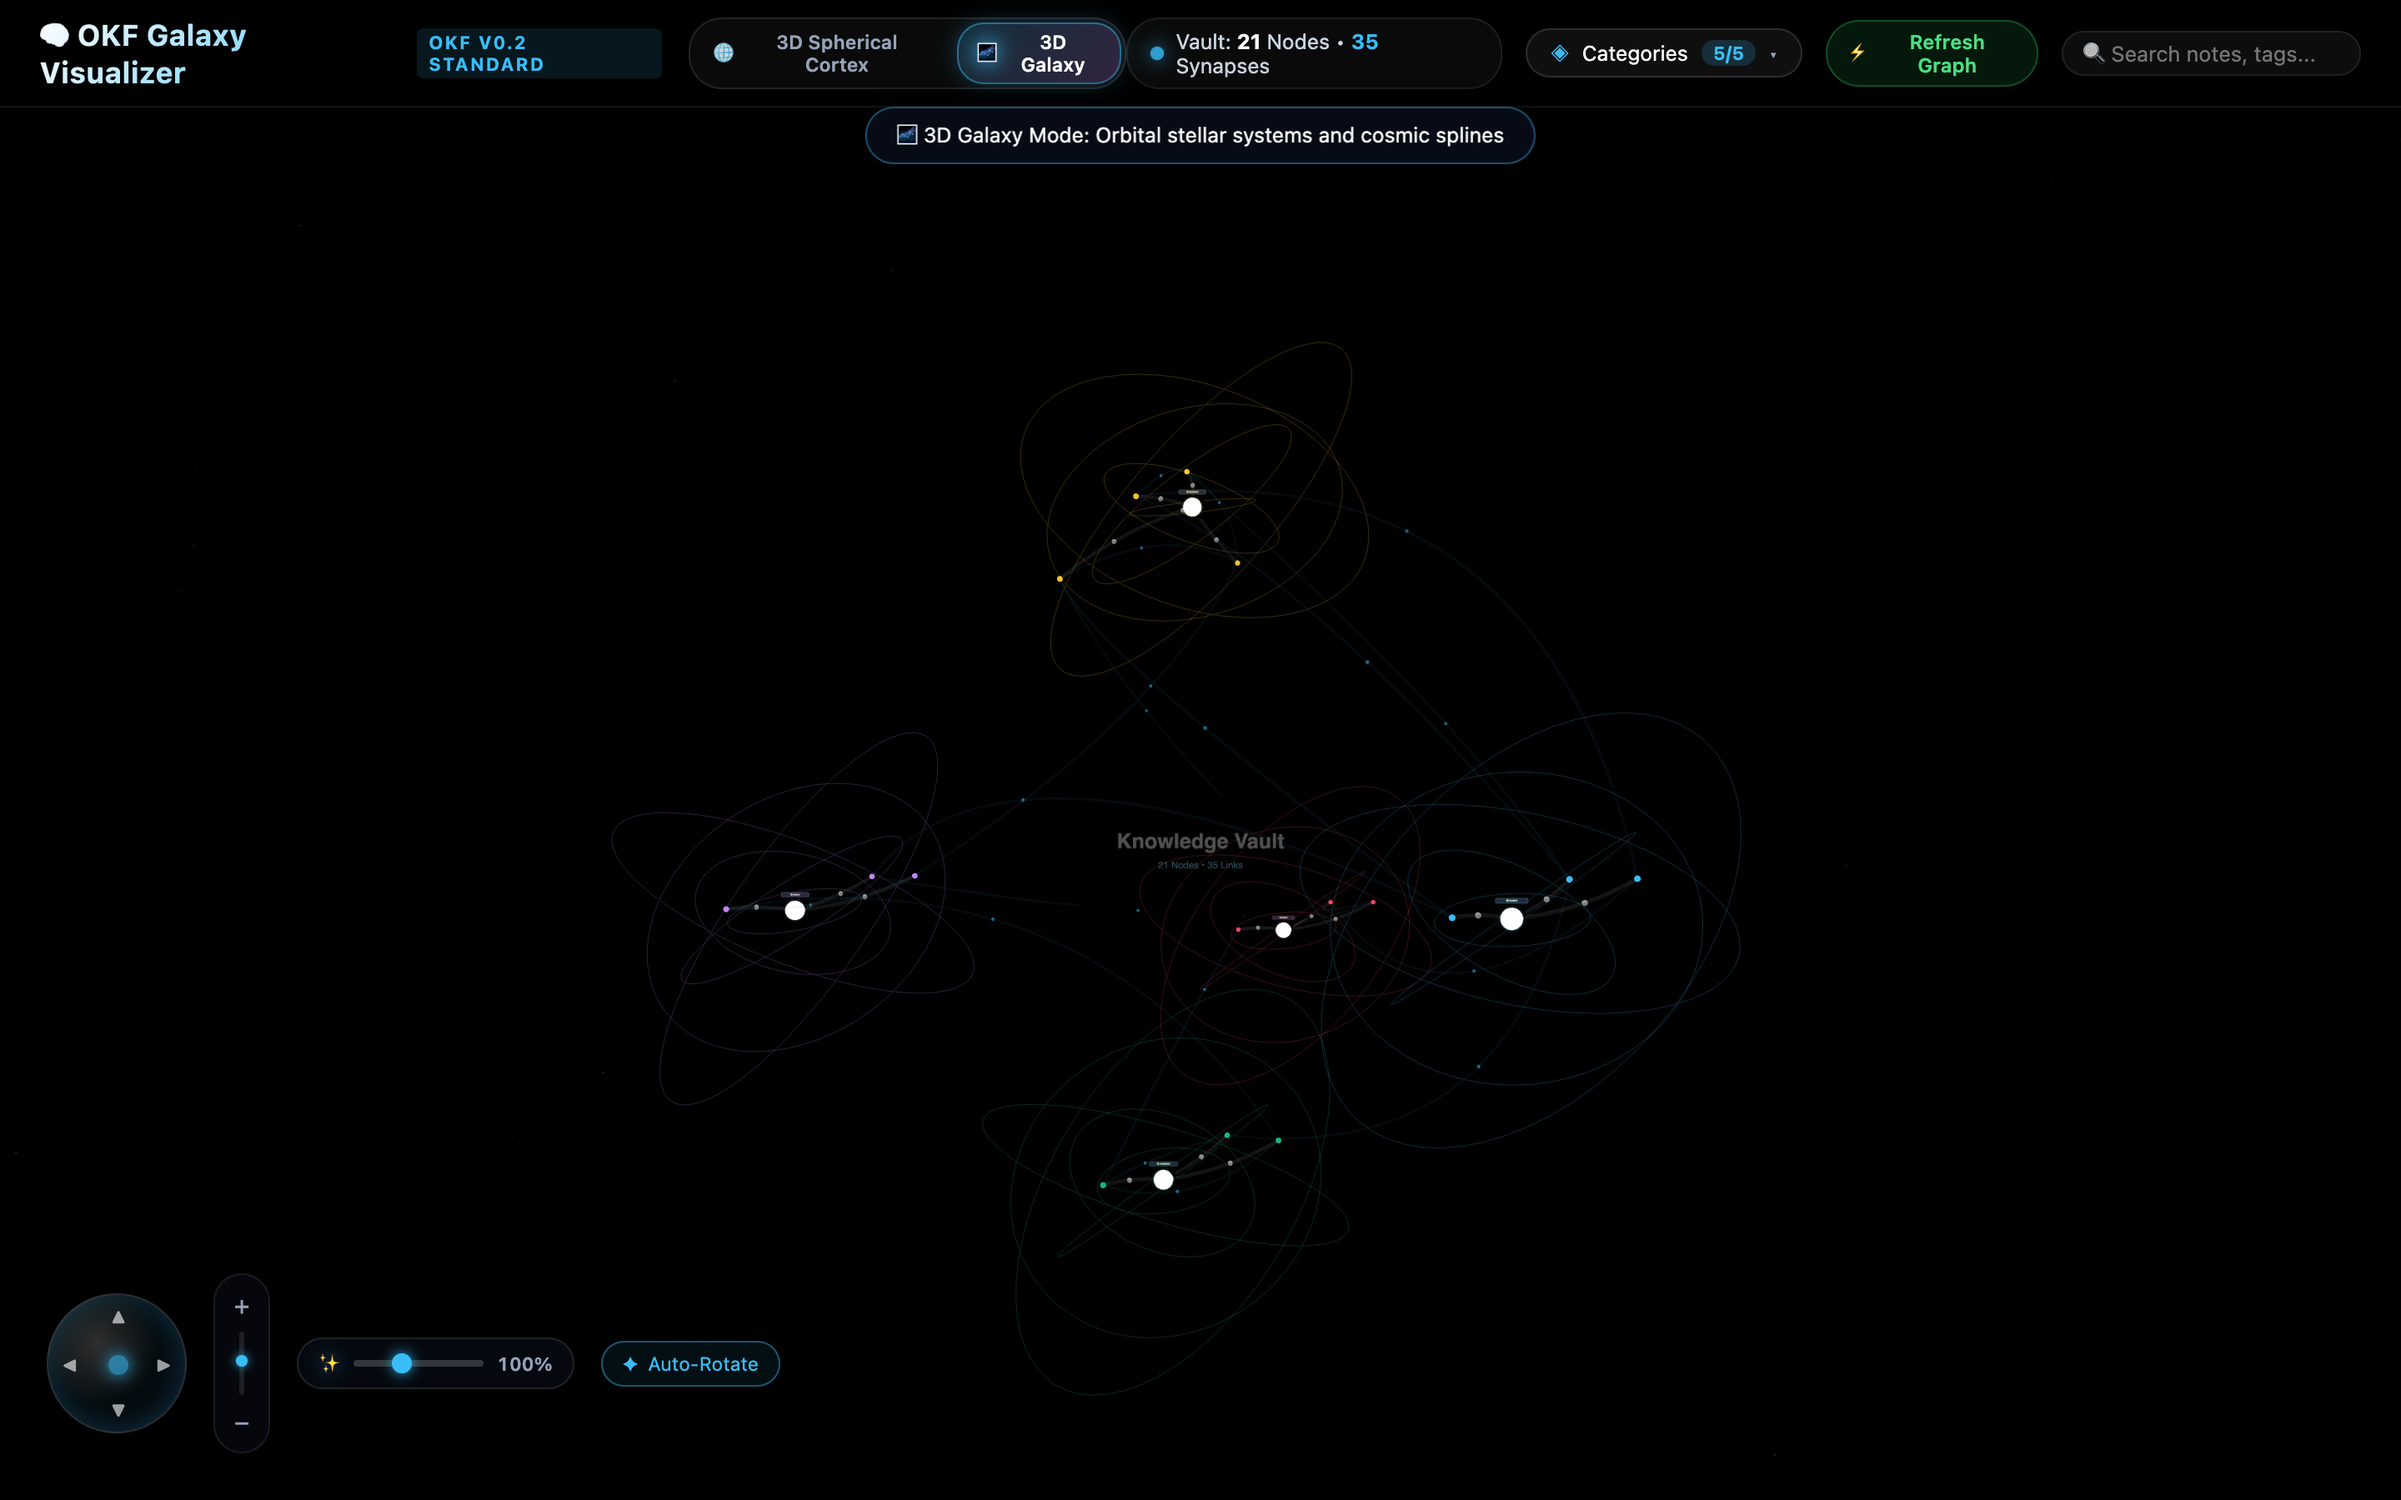
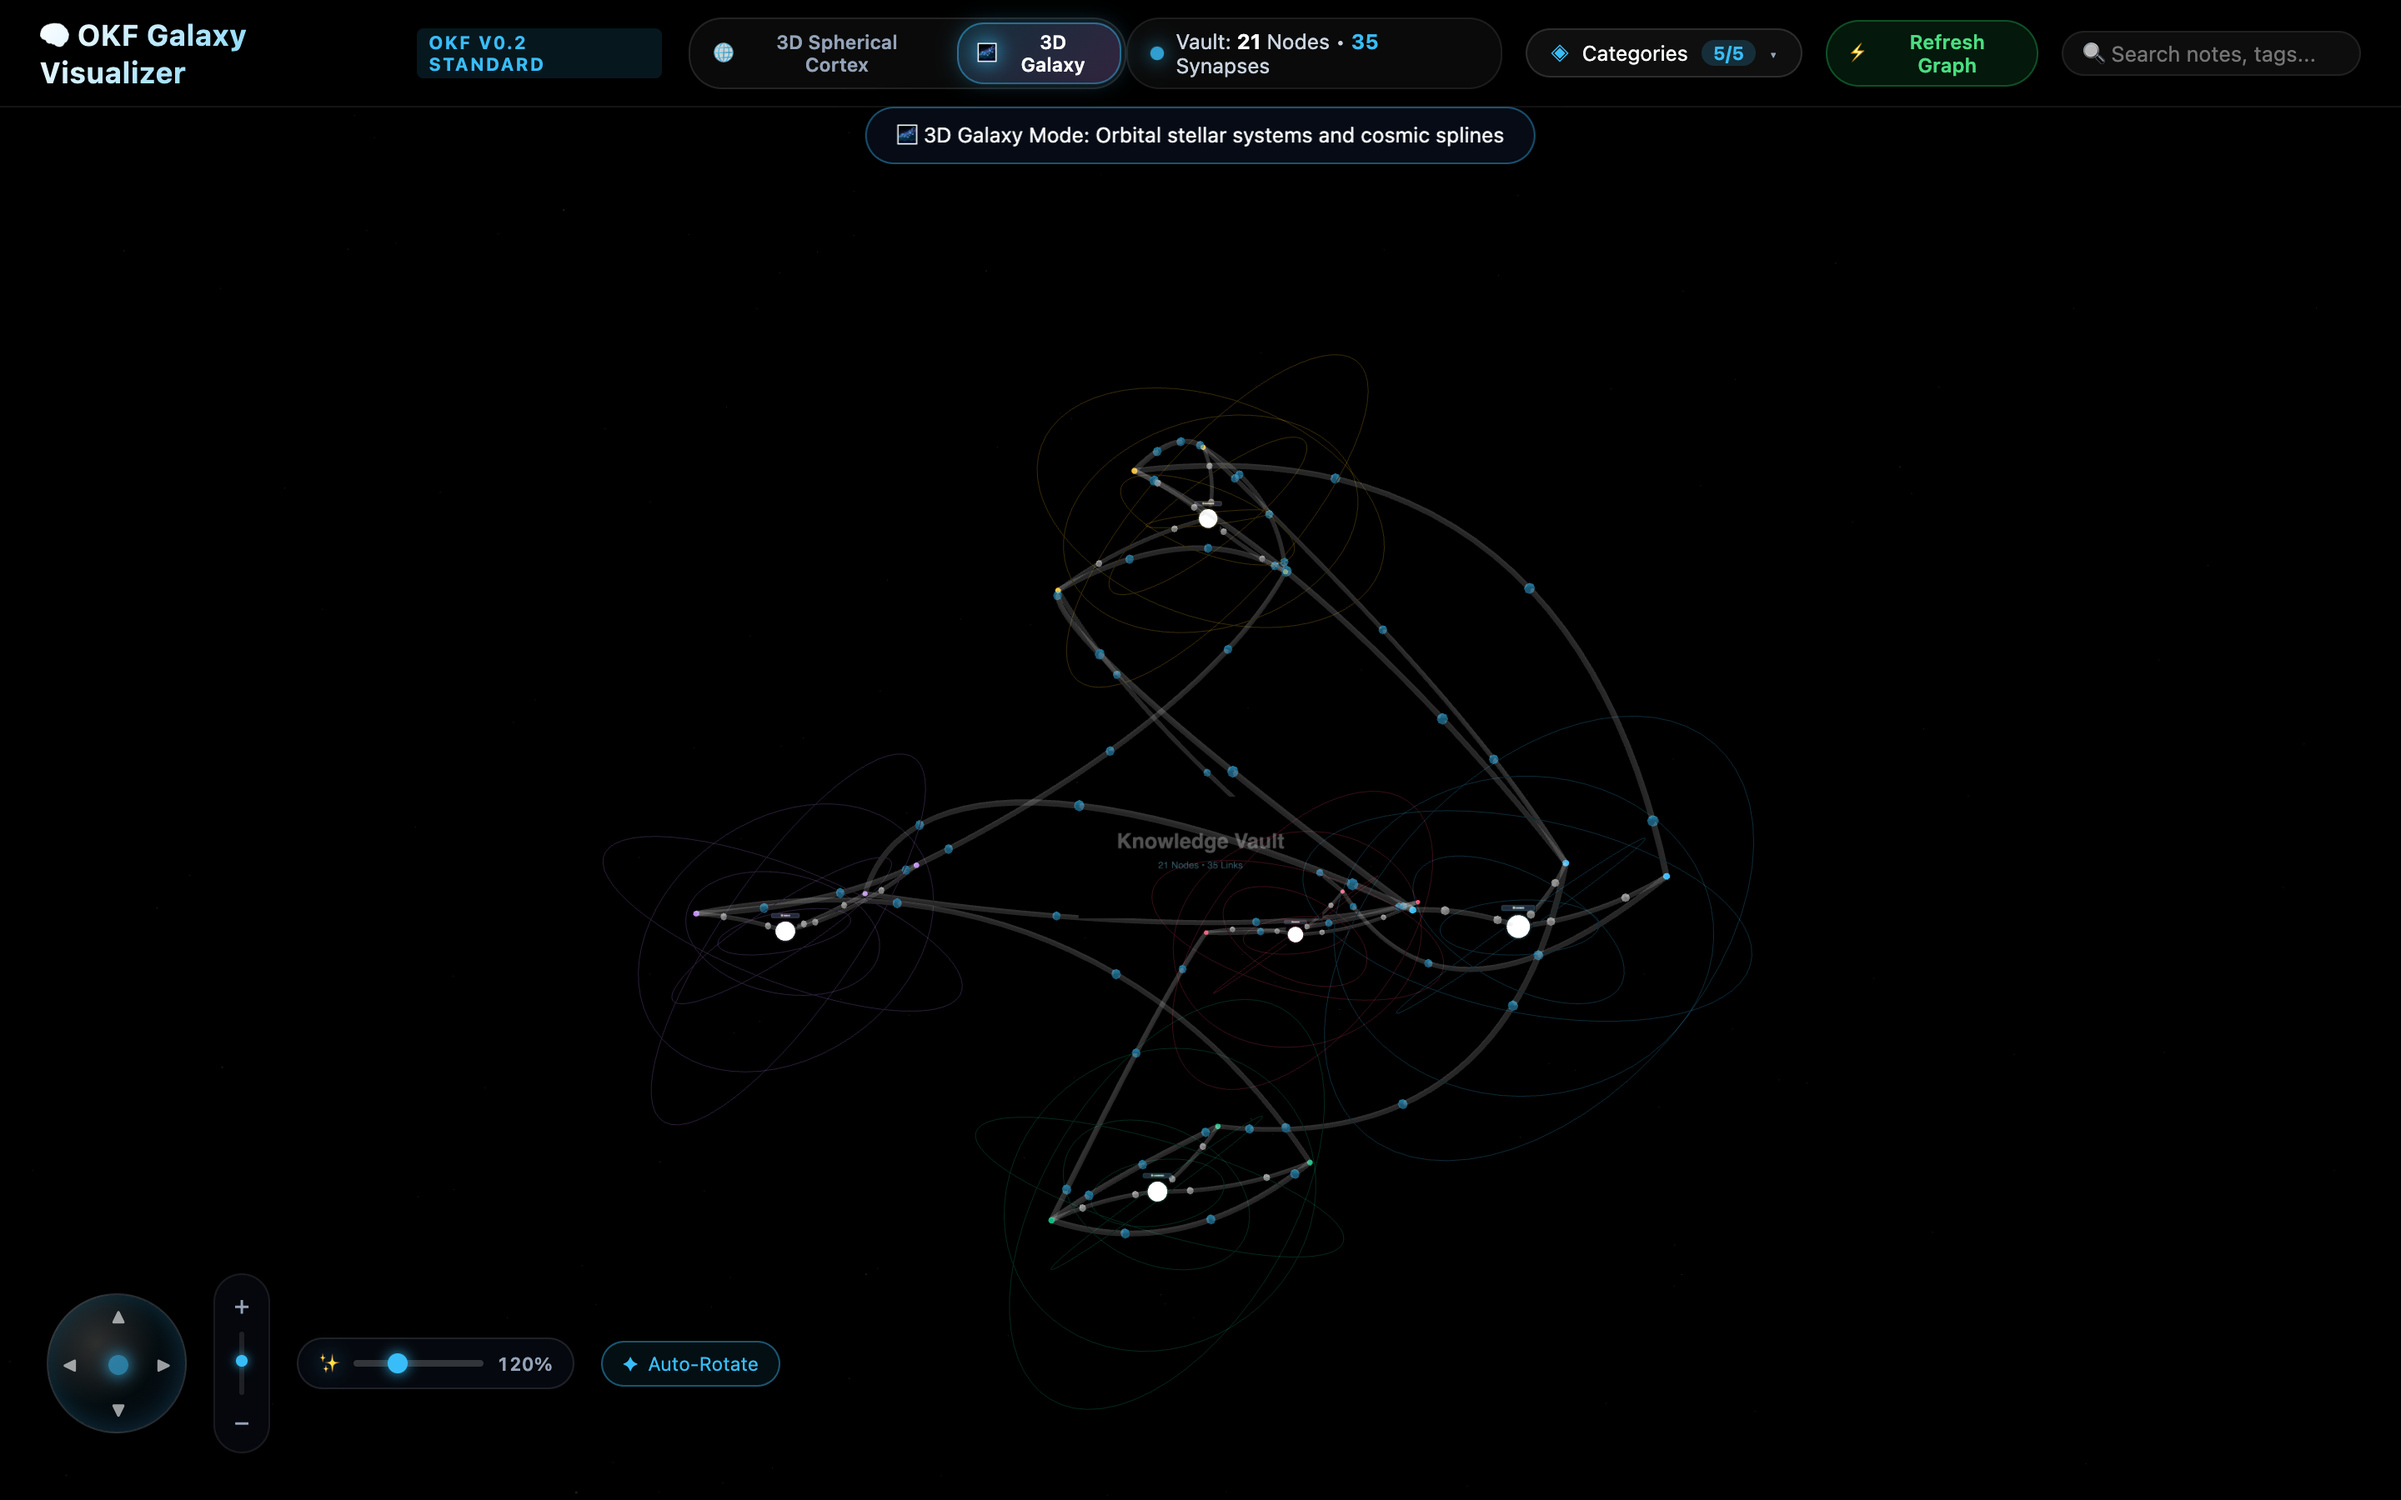
fix(physics): perpetual planetary orbit simulation and reactive glowing wikilink cables

diff --git a/src/public/index.html b/src/public/index.html
@@ -559,13 +559,13 @@
           type="range" 
           id="link-brightness-slider" 
           class="brightness-slider" 
-          min="0.2" 
-          max="2.5" 
+          min="0.4" 
+          max="3.0" 
           step="0.05" 
-          value="1.0" 
+          value="1.2" 
           oninput="onLinkBrightnessChange(this.value)"
         />
-        <span id="brightness-val-text" class="brightness-val">100%</span>
+        <span id="brightness-val-text" class="brightness-val">120%</span>
       </div>
 
       <div id="auto-rotate-pill" class="auto-rotate-pill active" onclick="toggleRotate()">
@@ -603,7 +603,7 @@
     let graphInstance = null;
     let autoRotate = true;
 
-    let linkBrightness = parseFloat(localStorage.getItem('okf_link_brightness') || '1.0');
+    let linkBrightness = parseFloat(localStorage.getItem('okf_link_brightness') || '1.2');
 
     function onLinkBrightnessChange(val) {
       linkBrightness = parseFloat(val);
@@ -614,14 +614,17 @@
       localStorage.setItem('okf_link_brightness', val);
 
       if (graphInstance) {
-        graphInstance.linkColor(graphInstance.linkColor());
+        graphInstance
+          .linkColor(graphInstance.linkColor())
+          .linkWidth(graphInstance.linkWidth())
+          .linkDirectionalParticleWidth(graphInstance.linkDirectionalParticleWidth());
       }
 
       if (window.__clusterOrbitGroups) {
         Object.values(window.__clusterOrbitGroups).forEach(group => {
           group.traverse(child => {
             if (child.isLine && child.material) {
-              child.material.opacity = Math.max(0.04, Math.min(0.85, 0.22 * linkBrightness));
+              child.material.opacity = Math.max(0.06, Math.min(0.95, 0.22 * linkBrightness));
               child.material.needsUpdate = true;
             }
           });
@@ -800,6 +803,13 @@
       }
 
       if (graphInstance) {
+        if (mode === 'galaxy') {
+          graphInstance.d3AlphaDecay(0);
+          graphInstance.d3VelocityDecay(0.16);
+        } else {
+          graphInstance.d3AlphaDecay(0.02);
+          graphInstance.d3VelocityDecay(0.4);
+        }
         graphInstance.d3ReheatSimulation();
       }
     }
@@ -1193,12 +1203,34 @@
             for (let i = 0; i < tId.length; i++) hash += tId.charCodeAt(i);
             return (hash % 6.28);
           })
-          // Enlaces Duros (Troncales Padre) vs Enlaces de Relación (Wikilinks claramente visibles)
-          .linkColor(link => link.isStructural ? 'rgba(255, 255, 255, 0.45)' : 'rgba(56, 189, 248, 0.32)')
-          .linkWidth(link => link.isStructural ? 1.4 : 0.85)
-          .linkDirectionalParticles(link => link.isStructural ? 2 : 1)
-          .linkDirectionalParticleSpeed(link => link.isStructural ? 0.002 : 0.005)
-          .linkDirectionalParticleWidth(link => link.isStructural ? 2.2 : 1.4)
+          // Enlaces Duros vs Enlaces de Relación (Wikilinks claramente visibles con brillo y pulsos de luz)
+          .linkColor(link => {
+            if (link.isStructural) {
+              const alpha = Math.min(1.0, 0.45 * linkBrightness);
+              return ;
+            } else {
+              // Wikilinks: glowing cyan/electric blue, vibrant and strongly reactive to slider
+              const alpha = Math.min(1.0, 0.72 * linkBrightness);
+              return ;
+            }
+          })
+          .linkWidth(link => {
+            if (link.isStructural) {
+              return 1.4 * Math.max(0.6, Math.min(3.0, linkBrightness));
+            } else {
+              // Wikilinks are prominent, luminous lines
+              return 1.8 * Math.max(0.6, Math.min(3.0, linkBrightness));
+            }
+          })
+          .linkDirectionalParticles(link => link.isStructural ? 2 : 3)
+          .linkDirectionalParticleSpeed(link => link.isStructural ? 0.0025 : 0.0045)
+          .linkDirectionalParticleWidth(link => {
+            if (link.isStructural) {
+              return 2.4 * Math.max(0.7, Math.min(3.0, linkBrightness));
+            } else {
+              return 3.2 * Math.max(0.7, Math.min(3.0, linkBrightness));
+            }
+          })
           .linkDirectionalParticleColor(link => link.isStructural ? '#ffffff' : '#38bdf8')
           .onNodeClick(node => focusNode(node))
           .onNodeDrag((node, translate) => {
@@ -1474,6 +1506,11 @@
           renderer.setPixelRatio(Math.min(window.devicePixelRatio || 1, 2));
         }
 
+        if (currentMode === 'galaxy') {
+          graphInstance.d3AlphaDecay(0);
+          graphInstance.d3VelocityDecay(0.16);
+        }
+
         // Auto-rotation
         graphInstance.controls().autoRotate = false;
         graphInstance.controls().autoRotateSpeed = 0.55;
@@ -1550,6 +1587,7 @@
 
     // 60 FPS Smooth Render Loop with Gentle Auto-Giro, Silky Inertia and Proximity Labels
     function startSmoothCameraLoop() {
+      let frameCount = 0;
       function tick() {
         requestAnimationFrame(tick);
         if (!graphInstance) return;
@@ -1565,7 +1603,15 @@
         currentRadius += (targetRadius - currentRadius) * 0.065;
 
         applyCameraPosition();
-        updateLabelLOD();
+                updateLabelLOD();
+
+        // Keep simulation running perpetually in galaxy mode
+        if (currentMode === 'galaxy' && graphInstance) {
+          frameCount = (frameCount || 0) + 1;
+          if (frameCount % 240 === 0) {
+            graphInstance.d3ReheatSimulation();
+          }
+        }
 
         // Actualizar posición de los anillos orbitales siguiendo a sus Soles
         if (window.__galaxyOrbitsMasterGroup) {
